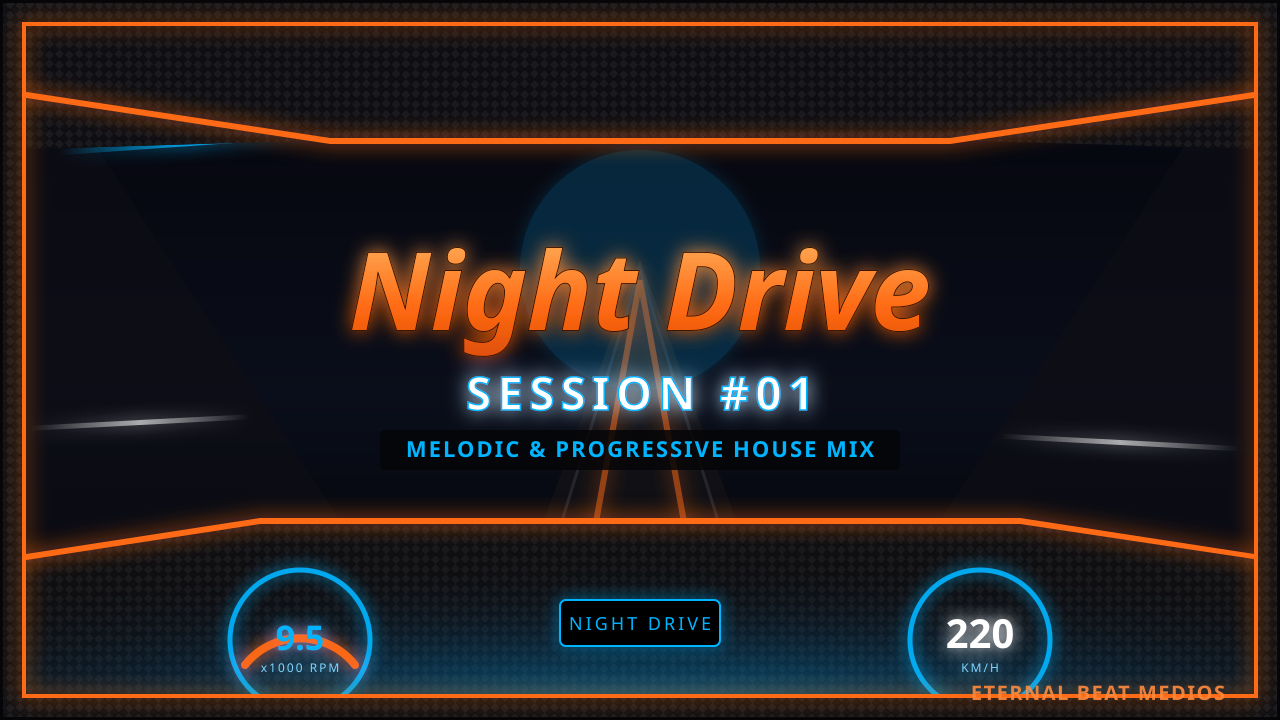
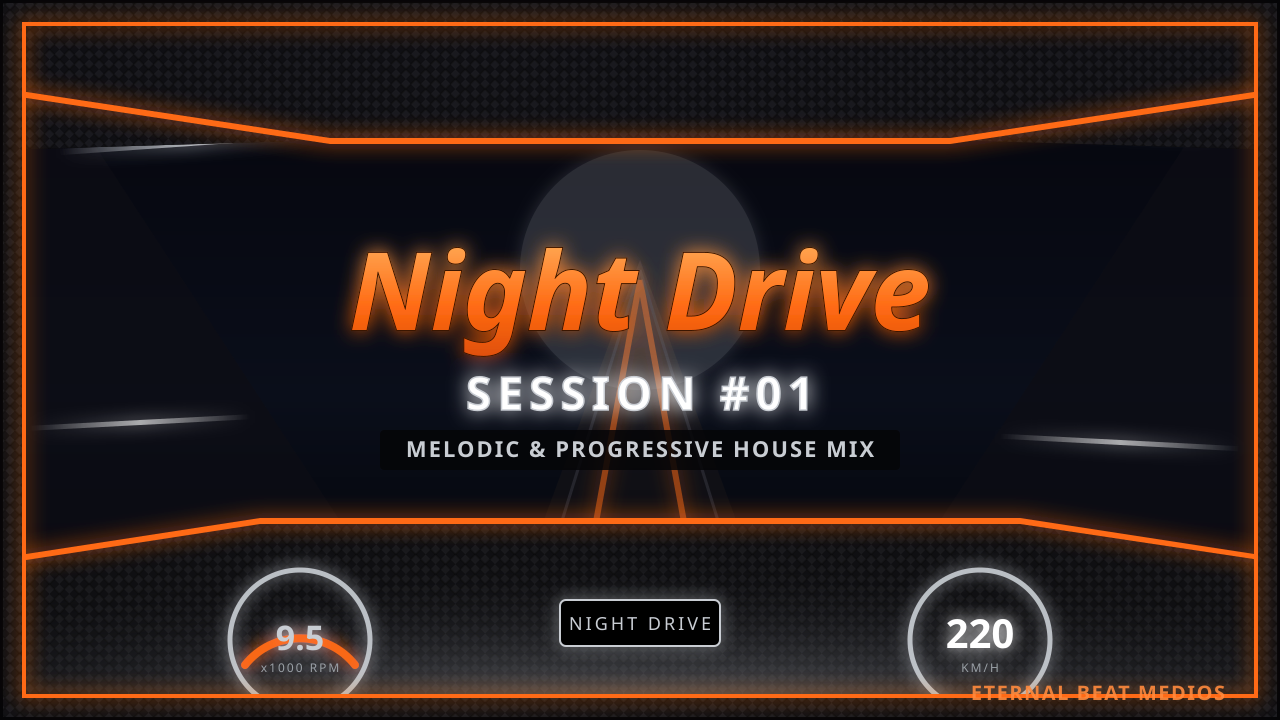
Ajustar paleta de colores a la identidad real del canal (Opcion A)
- Reemplazado Azul Electrico (#00B4FF) por Gris Acero (#C9CDD3) en visualizer, thumbnail y pipeline
- Combina con la paleta real del banner/logo de Eternal Beat Medios (naranja + gris + negro)
- Actualizado README.md con la nueva paleta documentada
- Actualizada metadata SEO: descripcion real con tagline, ubicacion (Valparaiso, Chile) y redes sociales reales del canal
- Agregados tags SEO locales (chile, valparaiso)
- Miniatura re-renderizada con la nueva paleta

diff --git a/visualizer/index.html b/visualizer/index.html
@@ -8,7 +8,8 @@
   :root{
     --papaya:#FF6A13;
     --papaya-bright:#FF8A3D;
-    --electric-blue:#00B4FF;
+    --steel:#C9CDD3;
+    --steel-dim:#6E7278;
     --carbon:#0a0a0d;
     --carbon-2:#15151a;
   }
@@ -50,8 +51,8 @@
     top:50%; left:50%;
     transform:translate(-50%,-50%);
     text-align:center;
-    color:var(--electric-blue);
-    text-shadow: 0 0 18px rgba(0,180,255,0.9), 0 0 40px rgba(0,180,255,0.4);
+    color:var(--steel);
+    text-shadow: 0 0 18px rgba(201,205,211,0.9), 0 0 40px rgba(201,205,211,0.4);
     font-weight:800;
     letter-spacing:4px;
     font-size:34px;
@@ -88,7 +89,7 @@
     letter-spacing:1px;
   }
   #controls button:hover{ background:var(--papaya-bright); }
-  #controls label{ color:var(--electric-blue); font-weight:600; }
+  #controls label{ color:var(--steel); font-weight:600; }
   #zoomWrap{
     width:100%; height:100%;
     display:flex; align-items:center; justify-content:center;
@@ -121,7 +122,7 @@
 <script>
 /* ============================================================
    ETERNAL BEAT MEDIOS - Visualizer Tacómetro Circular
-   Estética: McLaren (Fibra de Carbono / Naranja Papaya / Azul Eléctrico)
+   Estética: identidad real del canal (Negro Carbono / Naranja Papaya / Gris Acero)
    ============================================================ */
 
 const audioFileInput = document.getElementById('audioFile');
@@ -201,7 +202,7 @@ fullscreenBtn.addEventListener('click', () => {
 // ---- Colors ----
 const PAPAYA = '#FF6A13';
 const PAPAYA_BRIGHT = '#FF8A3D';
-const BLUE = '#00B4FF';
+const STEEL = '#C9CDD3';
 const CARBON = '#0a0a0d';
 
 const CX = 960, CY = 540; // center of 1920x1080 canvas
@@ -239,7 +240,7 @@ function draw(){
 
   // Background radial glow
   const grad = ctx.createRadialGradient(0,0, glowRadius*0.3, 0,0, glowRadius*1.6);
-  grad.addColorStop(0, rpmZoneActive ? 'rgba(255,106,19,0.35)' : 'rgba(0,180,255,0.25)');
+  grad.addColorStop(0, rpmZoneActive ? 'rgba(255,106,19,0.35)' : 'rgba(201,205,211,0.22)');
   grad.addColorStop(1, 'rgba(0,0,0,0)');
   ctx.fillStyle = grad;
   ctx.beginPath();
@@ -266,7 +267,7 @@ function draw(){
 
   const activeSweep = sweep * Math.min(1, avgEnergy * 1.4 + bassSmooth*0.3);
   const arcGrad = ctx.createLinearGradient(-BASE_RADIUS, 0, BASE_RADIUS, 0);
-  arcGrad.addColorStop(0, BLUE);
+  arcGrad.addColorStop(0, STEEL);
   arcGrad.addColorStop(0.7, PAPAYA);
   arcGrad.addColorStop(1, PAPAYA_BRIGHT);
 
@@ -275,7 +276,7 @@ function draw(){
   ctx.strokeStyle = arcGrad;
   ctx.lineWidth = 26;
   ctx.lineCap = 'round';
-  ctx.shadowColor = rpmZoneActive ? PAPAYA : BLUE;
+  ctx.shadowColor = rpmZoneActive ? PAPAYA : STEEL;
   ctx.shadowBlur = 30;
   ctx.stroke();
   ctx.shadowBlur = 0;
@@ -306,7 +307,7 @@ function draw(){
     ctx.beginPath();
     ctx.moveTo(x1,y1);
     ctx.lineTo(x2,y2);
-    ctx.strokeStyle = smoothLevels[i] > 0.7 ? PAPAYA_BRIGHT : BLUE;
+    ctx.strokeStyle = smoothLevels[i] > 0.7 ? PAPAYA_BRIGHT : STEEL;
     ctx.lineWidth = 6;
     ctx.lineCap = 'round';
     ctx.globalAlpha = 0.85;
@@ -363,7 +364,7 @@ function drawSpeedLines(energy){
     ctx.beginPath();
     ctx.moveTo(s.x, s.y);
     ctx.lineTo(s.x + s.len, s.y);
-    ctx.strokeStyle = `rgba(0,180,255,${s.alpha})`;
+    ctx.strokeStyle = `rgba(201,205,211,${s.alpha})`;
     ctx.lineWidth = 2;
     ctx.stroke();
   }

diff --git a/pipeline/render.py b/pipeline/render.py
@@ -7,7 +7,7 @@ Combina automáticamente (sin grabar pantalla):
   - Tu pista de audio (el DJ set / mezcla ya exportada)
   - Un video o imagen de fondo en loop (carretera, túnel, etc.)
   - Un espectro/ecualizador reactivo generado directamente por FFmpeg
-    a partir del audio (colorizado en Naranja Papaya / Azul Eléctrico)
+    a partir del audio (colorizado en Naranja Papaya / Gris Acero)
   - Un marco estilo "fibra de carbono" con acento papaya
   - (Opcional) tu logo centrado
 
@@ -33,10 +33,10 @@ import sys
 WIDTH = 1920
 HEIGHT = 1080
 
-# Paleta de marca
+# Paleta de marca (identidad real del canal: Negro Carbono / Naranja Papaya / Gris Acero)
 CARBON = "0x0a0a0d"
 PAPAYA = "0xFF6A13"
-BLUE = "0x00B4FF"
+STEEL = "0xC9CDD3"
 
 IMAGE_EXTS = {".png", ".jpg", ".jpeg", ".bmp", ".webp"}
 

diff --git a/metadata/sesion01_metadata.md b/metadata/sesion01_metadata.md
@@ -35,14 +35,24 @@ Progressive House Mix 2026 for Night Driving | Melodic Techno & Deep House
 
 ## Descripción
 
+**Versión actualizada** — incorpora tu tagline real ("El Sonido Sin Fronteras"),
+tu ubicación (Valparaíso, Chile) y tus redes reales ya confirmadas en el canal,
+además de sumar palabras clave extra para reforzar el SEO (idioma, ubicación,
+tipo de contenido):
+
 ```
 🏎 NIGHT DRIVE — SESSION #01 🏎
 Melodic & Progressive House Mix 2026 | Eternal Beat Medios
 
-Una hora de viaje sonoro entre luces de neón, carreteras nocturnas y bajos
-progresivos. Esta es la primera sesión oficial de Eternal Beat Medios: una
-selección de Progressive House y Melodic Deep House pensada para acompañar
-tu drive nocturno, tu sesión de estudio o tu after hours.
+Eternal Beat Medios | El Sonido Sin Fronteras 🚀🎵
+Tu plataforma multimedia dedicada a la música electrónica, DJs en vivo,
+streaming, cultura musical y producciones audiovisuales, transmitiendo desde
+Valparaíso, Chile para el mundo.
+
+Esta es la primera sesión oficial del canal: una hora de viaje sonoro entre
+luces de neón, carreteras nocturnas y bajos progresivos. Una selección de
+Progressive House y Melodic House pensada para tu drive nocturno, tu sesión
+de estudio o tu after hours.
 
 🎧 Escuchá con buenos auriculares o en tu sistema de audio del auto.
 🔔 Suscribite y activá la campana — todas las semanas subimos una nueva sesión.
@@ -57,19 +67,20 @@ tu drive nocturno, tu sesión de estudio o tu after hours.
 ────────────────────
 📲 SEGUINOS
 ────────────────────
-Instagram: [tu link]
-SoundCloud: [tu link]
-Spotify: [tu link]
-Sello / Radio Online: [tu link]
+Instagram: https://instagram.com/eternalbeatmedioscl
+Twitch: https://twitch.tv/eternalbeatradiotv
+Facebook: https://facebook.com/EternalBeatRadio
+YouTube: https://youtube.com/@eternalbeatmedioscl
 
 ────────────────────
 ⚖ DERECHOS Y CONTACTO
 ────────────────────
 Todos los tracks pertenecen a sus respectivos artistas y sellos. Si sos
 titular de derechos de algún track incluido y querés que sea retirado o
-acreditado de otra forma, escribinos a: [tu email de contacto]
+acreditado de otra forma, escribinos por el correo de contacto disponible
+en la sección "Acerca de" del canal.
 
-#ProgressiveHouse #MelodicHouse #DeepHouse #NightDrive #EternalBeatMedios
+#ProgressiveHouse #MelodicHouse #DeepHouse #NightDrive #EternalBeatMedios #Valparaiso #Chile
 ```
 
 > ⚠ Importante: reemplazá el tracklist con los nombres reales de los tracks
@@ -77,13 +88,23 @@ acreditado de otra forma, escribinos a: [tu email de contacto]
 > (la gente salta a su parte favorita) y el SEO (YouTube indexa cada nombre
 > de artista/track como si fuera texto de búsqueda adicional).
 
+> ✅ Ya actualicé los links de redes con los reales de tu canal (Instagram,
+> Twitch, Facebook). Verificá que las URLs sean exactamente las tuyas antes
+> de publicar — el link de Instagram en tu "Acerca de" tenía parámetros de
+> tracking (`?igsh=...`) que acorté a la URL limpia del perfil.
+
 ---
 
 ## Tags (separados por coma, pegar directo en YouTube Studio)
 
 ```
-progressive house, melodic house, deep house mix, progressive house mix 2026, night drive music, melodic techno, chill house mix, driving music mix, dj set progressive house, ben böhmer style, yotto style, lane 8 style, afterlife style music, deep house 2026, house music mix, eternal beat medios, radio online, dj mix 1 hour, study music house, chillvibes, electronic music mix, night driving playlist, car music mix, ambient house, organic house, downtempo house
+progressive house, melodic house, deep house mix, progressive house mix 2026, night drive music, melodic techno, chill house mix, driving music mix, dj set progressive house, ben böhmer style, yotto style, lane 8 style, afterlife style music, deep house 2026, house music mix, eternal beat medios, radio online, dj mix 1 hour, study music house, chillvibes, electronic music mix, night driving playlist, car music mix, ambient house, organic house, downtempo house, musica electronica chile, radio online chile, valparaiso electronic music, dj chile, musica para manejar de noche
 ```
+
+> Se agregaron 5 tags nuevos con ubicación/idioma (`chile`, `valparaiso`) para
+> capturar búsquedas locales, ya que tu canal se identifica como transmitiendo
+> desde Valparaíso — esto ayuda a aparecer en "Explorar" para audiencia chilena
+> además de la audiencia internacional de progressive house.
 
 ---
 
@@ -129,6 +150,6 @@ Usá el archivo generado en `../thumbnail/thumbnail_final.png` (exportado desde
 - [ ] Reemplazar el tracklist de ejemplo con los tracks reales y sus timestamps
 - [ ] Confirmar que tenés derecho de uso de cada track (licencia, royalty-free, o autorización)
 - [ ] Exportar la miniatura final en PNG desde `thumbnail.svg`
-- [ ] Completar los links reales de redes sociales en la descripción
-- [ ] Poner un email de contacto real para reclamos de derechos
+- [x] Links reales de redes sociales ya incluidos en la descripción (Instagram, Twitch, Facebook)
+- [ ] Verificar que el correo de contacto esté visible en la sección "Acerca de" del canal
 - [ ] Crear la playlist "Night Drive Sessions" en el canal

diff --git a/README.md b/README.md
@@ -1,8 +1,8 @@
 # Eternal Beat Medios — Kit de Lanzamiento "Sesión #01"
 
 Kit técnico completo para producir y publicar el primer video del canal de
-YouTube de tu radio online, con la identidad visual estilo McLaren (fibra de
-carbono + naranja papaya + azul eléctrico) y el concepto "Night Drive".
+YouTube de tu radio online, con la identidad visual real de Eternal Beat Medios
+(negro carbono + naranja papaya + gris acero) y el concepto "Night Drive".
 
 ```
 eternal-beat-medios/
@@ -89,11 +89,14 @@ Abrí `metadata/sesion01_metadata.md` y:
 
 ## Sobre la estética de marca (para mantener consistencia en futuros videos)
 
-- **Naranja Papaya**: `#FF6A13` (acentos, título, marco)
-- **Azul Eléctrico**: `#00B4FF` (tablero, datos digitales, glow)
-- **Fibra de Carbono / Carbón**: `#0a0a0d` (fondos, marcos, estructura)
+Paleta alineada a la identidad real del canal (banner y logo de Eternal Beat Medios):
+
+- **Naranja Papaya**: `#FF6A13` (acentos, título, marco, ícono de onda del logo)
+- **Gris Acero**: `#C9CDD3` (tablero, datos digitales, glow — reemplaza al azul del brief original de Gemini)
+- **Negro Carbono**: `#0a0a0d` (fondos, marcos, estructura)
 - **Tipografía título**: cursiva estilo racing (ver notas de fuente en `thumbnail/README.md`)
 - **Concepto**: "Night Drive" — velocidad, cabina de auto deportivo, ciudad/carretera nocturna
+- **Logo**: el ícono de onda de audio en naranja sobre círculo negro, ya usado en el canal real
 
 Guardá esta paleta para que todos los videos futuros del canal mantengan la
 misma identidad visual y el algoritmo/audiencia empiece a reconocer tu
